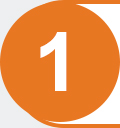
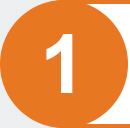
change box img

diff --git a/source/index.html b/source/index.html
@@ -92,7 +92,7 @@ Dịch vụ khấu trừ tài khoản tự động (Auto debit)</strong></td>
 							<tr>
 							  <td valign="top" style="margin: 0; padding: 0; border: none; font-family: Arial, Helvetica, sans-serif !important; font-size: 15px; line-height: 1.3;"><table width="100%" border="0" cellpadding="0" cellspacing="0" class="chs_body">
 								  <tr>
-									  <td width="60" valign="top" style="margin: 0; padding: 0; border: none; font-family: Arial, Helvetica, sans-serif !important; font-size: 15px; line-height: 1.3;"><img src="image/chs_box_12.jpg" width="60" height="auto" alt="" style="display: block"/></td>
+									  <td width="65" valign="top" style="margin: 0; padding: 0; border: none; font-family: Arial, Helvetica, sans-serif !important; font-size: 15px; line-height: 1.3;"><img src="image/chs_box_12.jpg" width="65" height="auto" alt="" style="display: block"/></td>
 									  <td valign="middle" bgcolor="#FFFFFF" style="margin: 0; padding: 0 0 0 10px; border-top: 2px solid #e87722; border-bottom: 2px solid #e87722; border-radius: 0 32px 32px 0; border-right: 2px solid #e87722; font-family: Arial, Helvetica, sans-serif !important; font-size: 14px; line-height: 1.3;">Đăng nhập vào <strong>VCB Digibank</strong></td>
 								  </tr>
 								  </table></td>
@@ -103,7 +103,7 @@ Dịch vụ khấu trừ tài khoản tự động (Auto debit)</strong></td>
 							<tr>
 							  <td valign="top" style="margin: 0; padding: 0; border: none; font-family: Arial, Helvetica, sans-serif !important; font-size: 15px; line-height: 1.3;"><table width="100%" border="0" cellpadding="0" cellspacing="0" class="chs_body">
 								  <tr>
-									  <td width="60" valign="top" style="margin: 0; padding: 0; border: none; font-family: Arial, Helvetica, sans-serif !important; font-size: 15px; line-height: 1.3;"><img src="image/chs_box_13.jpg" width="60" height="auto" alt="" style="display: block"/></td>
+									  <td width="65" valign="top" style="margin: 0; padding: 0; border: none; font-family: Arial, Helvetica, sans-serif !important; font-size: 15px; line-height: 1.3;"><img src="image/chs_box_13.jpg" width="65" height="auto" alt="" style="display: block"/></td>
 									  <td valign="middle" bgcolor="#FFFFFF" style="margin: 0; padding: 0 0 0 10px; border-top: 2px solid #e87722; border-bottom: 2px solid #e87722; border-radius: 0 32px 32px 0; border-right: 2px solid #e87722; font-family: Arial, Helvetica, sans-serif !important; font-size: 13px; line-height: 1.3;">Chọn chức năng <strong>"Thanh toán hóa đơn"</strong> - Dịch vụ <strong>"VCB - Auto Debit"</strong> - <strong><br />
 								      "Đăng ký dịch vụ"</strong> - Loại dịch vụ <strong>"Phí bảo hiểm"</strong> - Nhà cung cấp dịch vụ <strong><br />
 								      "Bảo hiểm nhân thọ FWD"</strong> - Mã khách hàng [<em>nhập</em> <strong>Số hợp đồng bảo hiểm</strong>]</td>
@@ -116,7 +116,7 @@ Dịch vụ khấu trừ tài khoản tự động (Auto debit)</strong></td>
 							<tr>
 							  <td valign="top" style="margin: 0; padding: 0; border: none; font-family: Arial, Helvetica, sans-serif !important; font-size: 15px; line-height: 1.3;"><table width="100%" border="0" cellpadding="0" cellspacing="0" class="chs_body">
 								  <tr>
-									  <td width="60" valign="top" style="margin: 0; padding: 0; border: none; font-family: Arial, Helvetica, sans-serif !important; font-size: 15px; line-height: 1.3;"><img src="image/chs_box_14.jpg" width="60" height="auto" alt="" style="display: block"/></td>
+									  <td width="65" valign="top" style="margin: 0; padding: 0; border: none; font-family: Arial, Helvetica, sans-serif !important; font-size: 15px; line-height: 1.3;"><img src="image/chs_box_14.jpg" width="65" height="auto" alt="" style="display: block"/></td>
 									  <td valign="middle" bgcolor="#FFFFFF" style="margin: 0; padding: 0 0 0 10px; border-top: 2px solid #e87722; border-bottom: 2px solid #e87722; border-radius: 0 32px 32px 0; border-right: 2px solid #e87722; font-family: Arial, Helvetica, sans-serif !important; font-size: 14px; line-height: 1.2;">VCB sẽ <strong>tự động khấu trừ tài khoản của Quý khách</strong> để thanh toán phí bảo hiểm định kỳ khi hợp đồng đến hạn nộp phí</td>
 								  </tr>
 								  </table></td>
